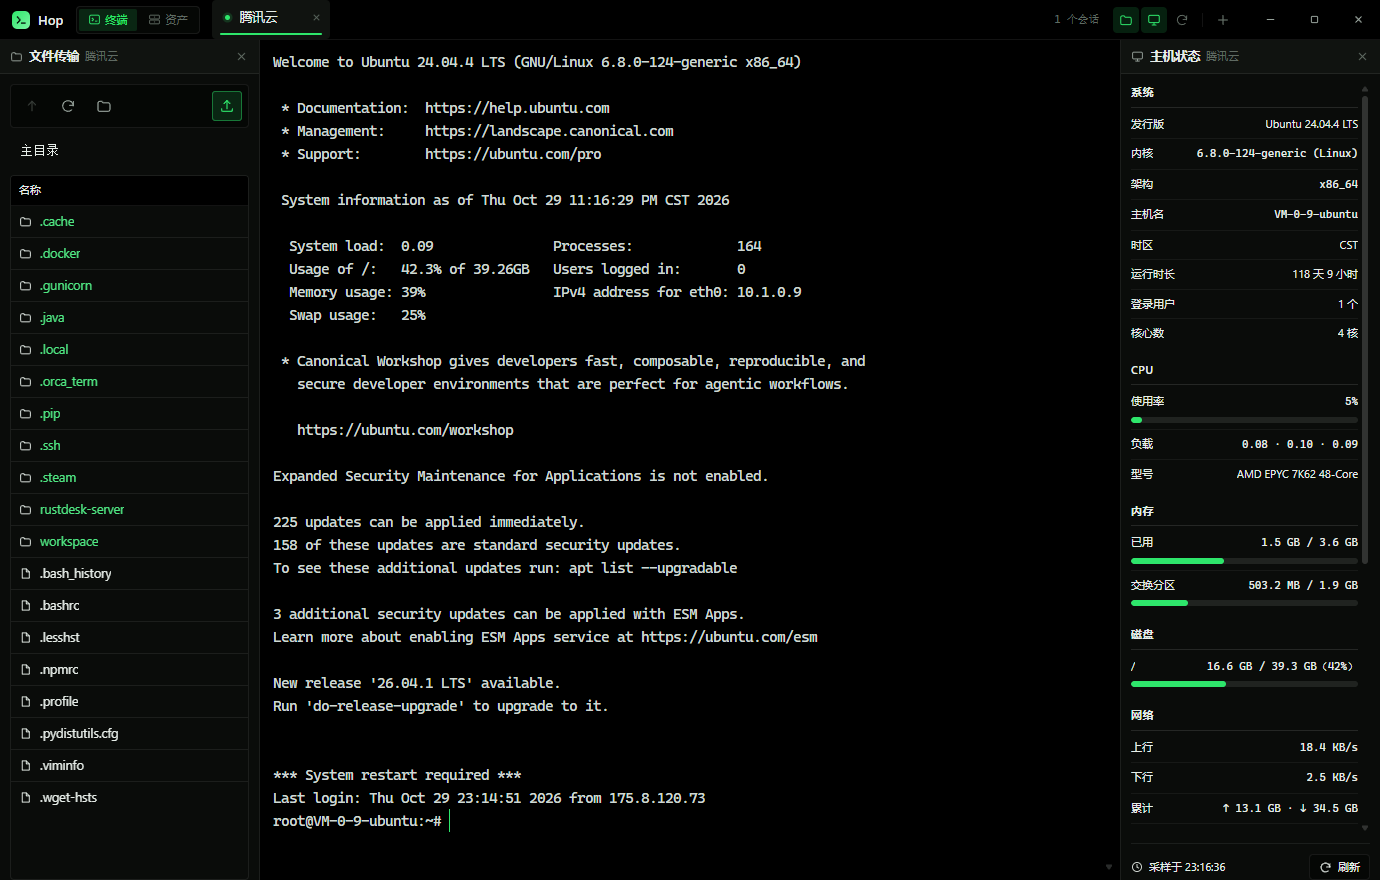
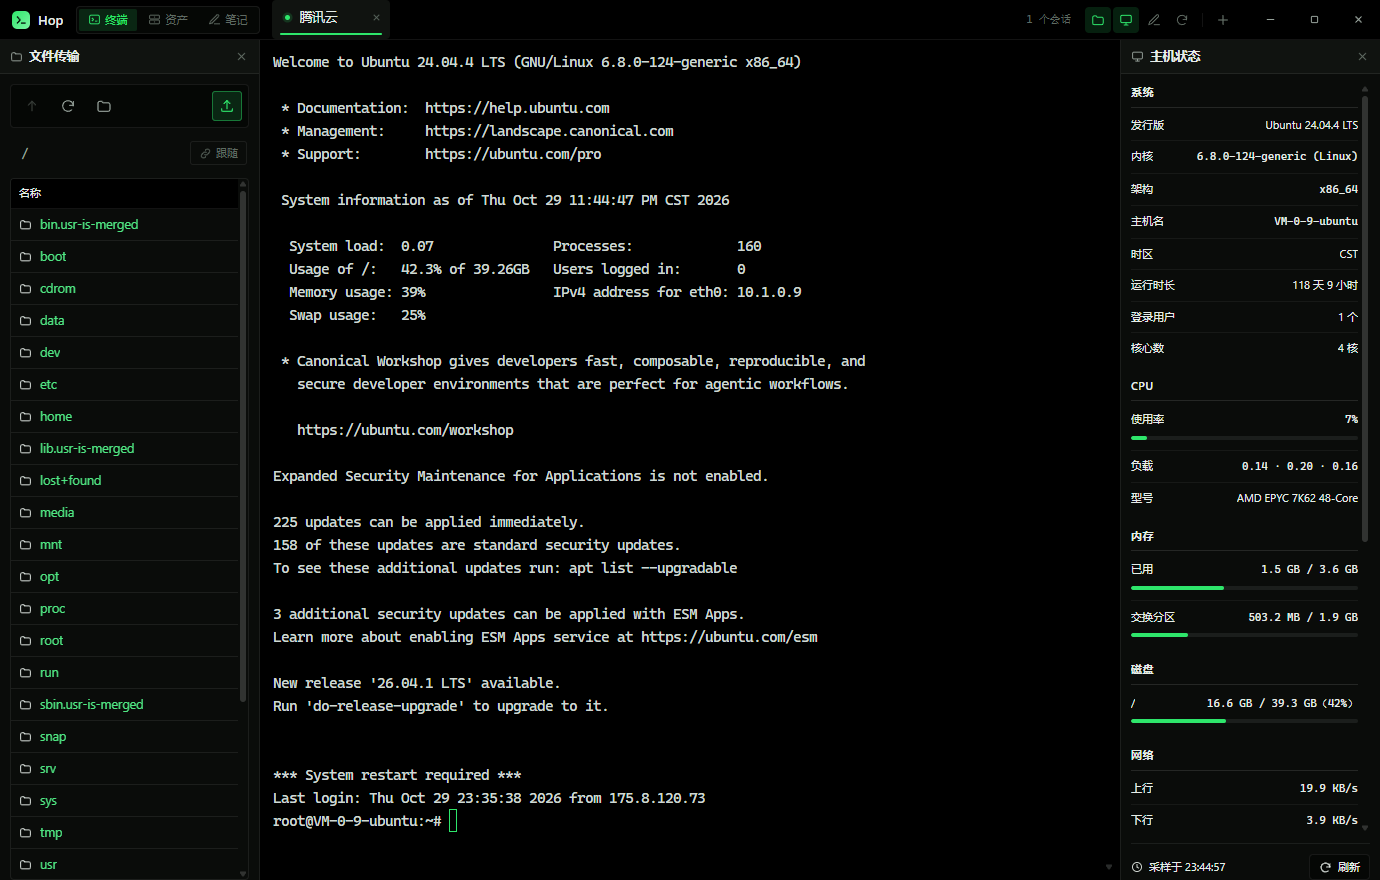
docs: README/CHANGELOG 补齐笔记页、跟随终端目录与传输条改动

diff --git a/src/store/cwd.ts b/src/store/cwd.ts
@@ -73,7 +73,7 @@ export function inferCd(current: string, line: string): string | null {
 
   if (target.startsWith('/')) return target;
   if (target.startsWith('~/')) return `~/${target.slice(2)}`;
-  const base = current === '~' ? '~' : current || '/';
+  const base = (current || '~').replace(/\/+$/, '') || '/';
   if (base === '/') return `/${target}`;
   return `${base}/${target}`;
 }

diff --git a/README.md b/README.md
@@ -20,8 +20,8 @@
 | ![命令面板](docs/screenshots/command-palette.png) | ![新建连接](docs/screenshots/host-form.png) |
 | **文件右键菜单** | **主机状态：逐行纵向排列** |
 | ![右键菜单](docs/screenshots/dock-menu.png) | ![主机状态](docs/screenshots/monitor-detail.png) |
-| **底部传输进度（整页最下方，可关闭）** | **偏好设置** |
-| ![传输进度](docs/screenshots/transfer.png) | ![偏好设置](docs/screenshots/settings.png) |
+| **笔记：编辑 + 即时渲染** | **偏好设置** |
+| ![笔记](docs/screenshots/notes.png) | ![偏好设置](docs/screenshots/settings.png) |
 | **连接动效：握手进行中** | **连接动效：握手完成** |
 | ![连接中](docs/screenshots/connect.png) | ![已连接](docs/screenshots/connect-done.png) |
 | **浅色主题：欢迎页（纯白 + 墨绿）** | **浅色主题：终端** |
@@ -39,11 +39,12 @@
 | 🎨 两套主题 | 纯黑 + 荧光绿 / 纯白 + 墨绿，终端配色随主题一起切换 |
 | 🪟 无边框窗口 | 自绘标题栏（品牌 / 标签 / 会话操作 / 最小化·最大化·关闭）；文件传输、主机状态、重新连接都在右上角，终端从标题栏下一行直通到底，没有多余横条 |
 | 🎬 连接动效 | 连接/重连时覆盖终端：呼吸光环 + 分段文案（建通道 → 协商密钥 → 验证身份 → 启动终端），成功后闪光淡出 |
-| 📁 文件传输 | 连接后常驻**左侧**：30 px 图标工具条（上一级 / 刷新 / 新建文件夹 / 上传）+ 可点击的路径面包屑，SFTP 浏览、右键打开/下载/重命名/复制路径/删除、目录按名称排序（中文/点文件在前），可拖拽调宽（260–620 px） |
-| 📈 主机状态 | 连接后常驻**右侧**，一条远端命令采样后**逐行纵向排列**（系统 → CPU → 内存 → 磁盘 → 网络 → 进程），每行只放一项：名称在左、数值在右、占用率进度条独占下一行；两侧可各自关闭、独立拖拽调宽、3 秒刷新 |
+| 📁 文件传输 | 连接后常驻**左侧**：30 px 图标工具条（上一级 / 刷新 / 新建文件夹 / 上传）+ 可手输回车的路径框（`~`、`/`、绝对/相对路径都能跳，`Esc` 还原），右侧「跟随」开关打开后随终端 `cd` 自动切换目录；右键打开/下载/重命名/复制路径/删除，目录按名称排序，可拖拽调宽（260–620 px），从主目录能一路退回 `/` |
+| 📈 主机状态 | 连接后常驻**右侧**，一条远端命令采样后**逐行纵向排列**（系统 → CPU → 内存 → 磁盘 → 网络 → 进程）：纯数值一行一项（名称在左、数值在右），带占用率的指标独立成块——名称与数值一行、4 px 细进度条单独一行，文字和条形不再互相挤；两侧可各自关闭、独立拖拽调宽、3 秒刷新 |
 | ⚡ 浏览提速 | SSH 连接统一关闭 Nagle，SFTP 子系统通道按连接复用：目录 437 ms → 104 ms，二次进入 76 ms |
 | 📋 复制粘贴 | 选中即复制（可关，只写纯文本）、复制快捷键可配（`Ctrl+C` 或 `Ctrl+Shift+C`）、复制成功轻提示可关，粘贴二选一（`Ctrl+V` / 右键） |
-| 📊 传输进度 | 汇总在**整页最下方**：文件名、百分比、速率、剩余时间与失败原因；点 ✕ 收起，新传输开始时自动重新出现 |
+| 📊 传输进度 | 汇总在**整页最下方的一条 39 px 窄栏**：每条传输一行（图标 / 文件名 / 百分比 · 速率 · 剩余），进度线压成 2 px 贴在行底，完成态自动隐藏；失败原因直接写在行内，点 ✕ 收起，新传输开始时自动重新出现 |
+| ✍ 笔记 | 独立笔记页（标题栏「笔记」或在终端页点铅笔按钮 / `Ctrl+Shift+N`）：左侧列表 + 右侧编辑，兼容常用 Markdown（标题、列表、引用、代码块、表格、链接）；「即时渲染」开关默认关闭，打开后左右分栏实时预览，内容自动存在本机 |
 | 🧪 演示模式 | 无后端也可完整运行：内置示例主机 + 模拟 shell |
 | 🎛 偏好设置 | 即时生效并保存在本机；底部状态栏已移除，版本号与「恢复默认」都收进设置 |
 
@@ -137,14 +138,17 @@ src/
 ├── components/
 │   ├── TitleBar · TabBar · TerminalPane · Welcome · AssetsPage
 │   ├── SideDock · FilesBrowser · MonitorView · TransfersBar
-│   ├── FilesPanel · MonitorPanel · CommandPalette · HostFormDialog
+│   ├── NotesPage · CommandPalette · HostFormDialog
 │   ├── SettingsPanel · ConfirmDialog
 │   └── ui/               # Button · Field · Modal · Kbd · Icon · Logo · Spinner · Toasts
 ├── hooks/useSystemTheme.ts
-├── lib/                  # utils · visual（颜色/缩写/相对时间）· host（Host↔Draft）
+├── lib/                  # utils · visual · host（Host↔Draft）· markdown（React 渲染器）
 ├── store/
 │   ├── AppStore.tsx      # 单一 reducer + Context，所有业务动作在此收口
-│   └── settings.ts       # 默认值、钳制与持久化
+│   ├── settings.ts       # 默认值、钳制与持久化
+│   ├── transfers.ts      # 传输记录轮询与订阅
+│   ├── cwd.ts            # 终端当前目录（OSC 7 + cd 推断）
+│   └── notes.ts          # 笔记存取（本机 localStorage）
 ├── styles/
 │   ├── tokens.css        # 设计令牌：色彩/字号/间距/圆角/动效/终端色
 │   ├── base.css          # reset、滚动条、动效关键帧、无障碍工具类
@@ -214,6 +218,7 @@ build/                    # 图标：icon.svg · icon.png · icon.ico · icons/
 | `⌘/Ctrl + 1…9` | 切换到第 n 个会话 |
 | `⌘/Ctrl + Shift + F` | 打开 / 关闭文件传输栏 |
 | `⌘/Ctrl + Shift + M` | 打开 / 关闭主机状态（右侧栏） |
+| `⌘/Ctrl + Shift + N` | 打开 / 关闭笔记页 |
 | `⌘/Ctrl + Shift + C` | 复制选中内容 |
 | `⌘/Ctrl + Shift + V` | 粘贴（与右键菜单同一入口） |
 | `⌘/Ctrl + W` | 关闭当前标签（可在设置中开启二次确认） |

diff --git a/CHANGELOG.md b/CHANGELOG.md
@@ -7,13 +7,18 @@
 
 ### 新增
 
-- **资产页**：左侧主机列表取消，改为独立的资产管理页（标题栏「终端 / 资产」分段切换，`Esc` 回终端）。每台主机一张卡片，三个按钮：**连接 / 编辑 / 删除**，并显示头像、地址、标签、认证方式与上次连接时间；支持搜索名称·地址·标签、收藏置顶、空态与错误提示。
-- **底部传输条**：上传 / 下载进度改为整页最下方的一排卡片，可点 ✕ 收起；有新的传输开始时会自动重新出现。
+- **资产页**：左侧主机列表取消，改为独立的资产管理页（标题栏「终端 / 资产 / 笔记」分段切换，`Esc` 回终端）。后台管理式列表：主机 / 标签 / 认证 / 上次连接 / 操作五列，每行 **连接 · 编辑 · 删除**，支持搜索与收藏置顶。
+- **发行版图标**：连上主机后读取 `/etc/os-release`（回退 `uname`），资产页自动换成对应发行版标志，未识别时退回主机名首字。
+- **跟随终端目录**：文件栏路径框右侧的「跟随」开关，打开后终端 `cd` 到哪、左侧文件列表就跟到哪（支持 OSC 7 与 `cd`/`pushd` 推断）。
+- **笔记页**：左侧列表 + 右侧 Markdown 编辑；「即时渲染」开关默认关闭，开启后左右分栏实时预览（标题、列表、引用、代码块、表格、链接）。入口在标题栏与终端页铅笔按钮，快捷键 `Ctrl+Shift+N`。
+- **底部传输条**：上传 / 下载进度贴在整页最下方的一条窄栏里，可点 ✕ 收起，有新传输时自动重现。
 
 ### 优化
 
 - **终端去掉多余横条**：会话状态与工具按钮全部收进自绘标题栏（文件传输 / 主机状态 / 重新连接），终端从标题栏下一行直通到底。
-- **传输卡片重做**：文件名 + 百分比 + 全宽进度条 + 已传/总大小 + 速率 + 剩余时间，失败态直接在卡片里显示原因。
+- **传输进度条重做**：从卡片改成一排单行条目（图标 / 文件名 / 百分比 · 速率 · 剩余），进度线压成 2 px 贴在行底，整条高度 39 px，不再占掉大半屏。
+- **文件栏路径可输入**：去掉「主目录」大标题与面包屑，改成可直接输入、回车跳转的路径框（`~`、`/`、绝对与相对路径），`Esc` 还原；主目录的「上一级」按真实 home 计算，能一路退回 `/`。
+- **主机状态重排**：带占用率的指标独立成块（名称 + 数值一行、细进度条单独一行），纯数值仍是一行一项，文字与条形不再挤在一起。
 - **文件面板移左侧、主机状态移右侧**：两侧可独立关闭、独立拖拽调宽，宽度写入设置。
 
 ## v0.0.2
